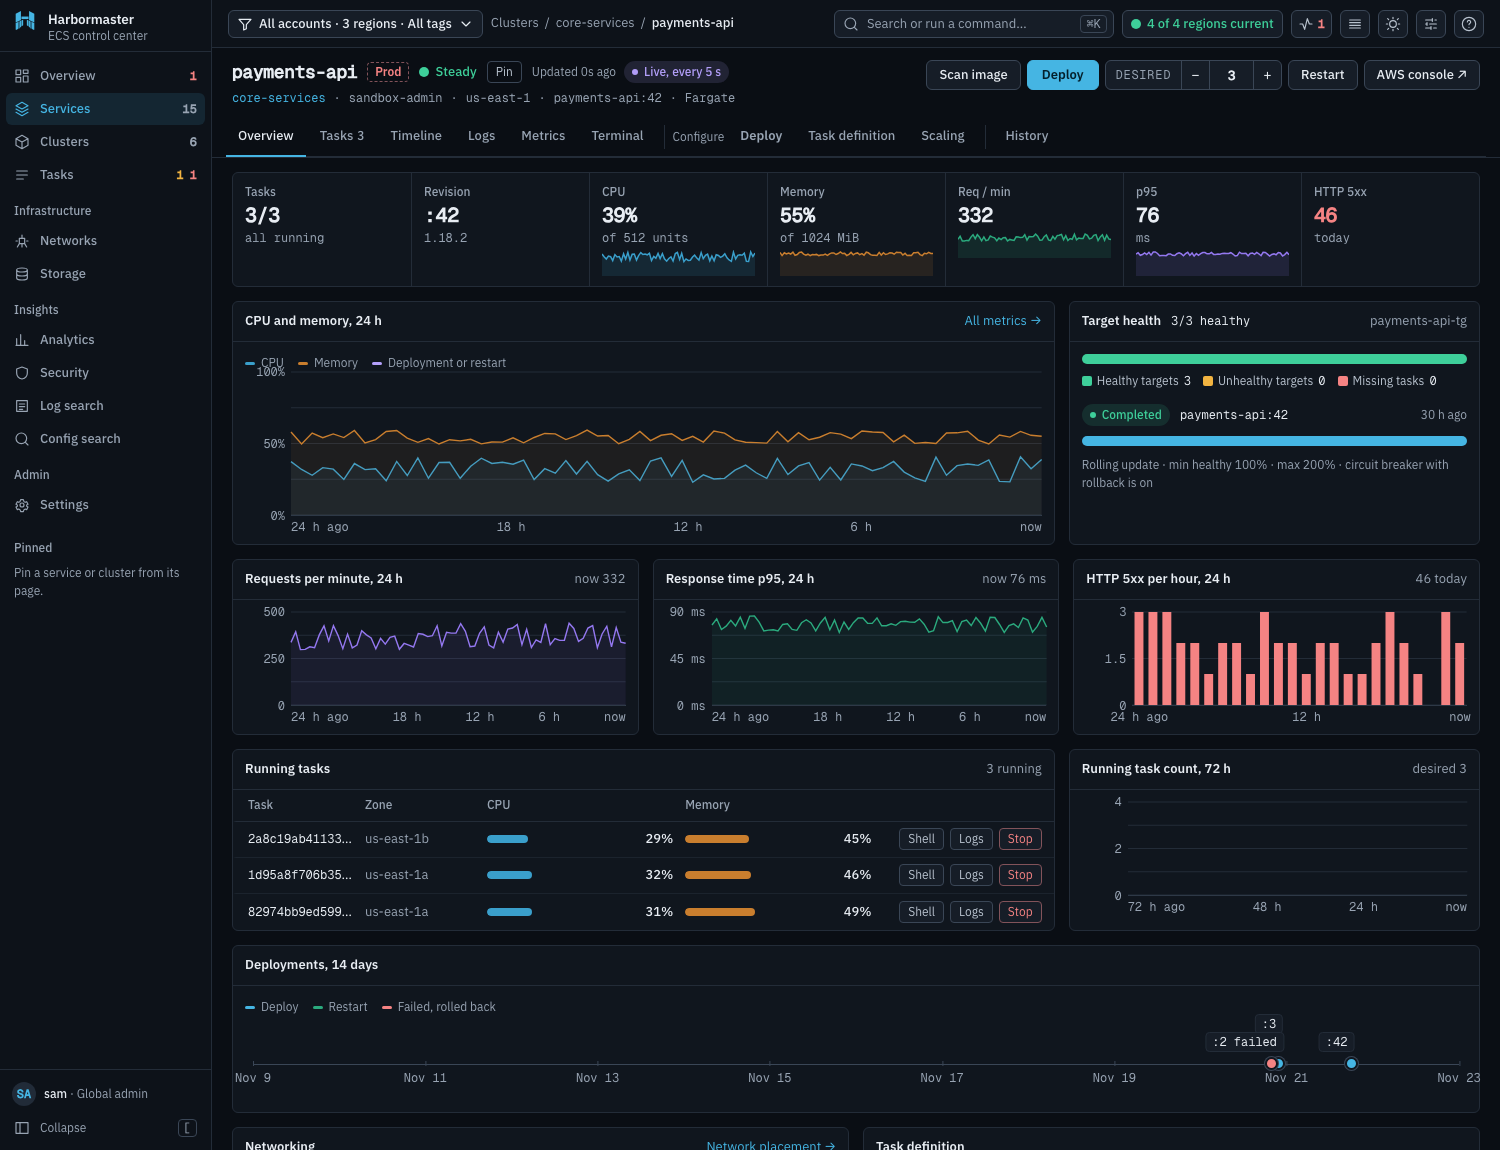
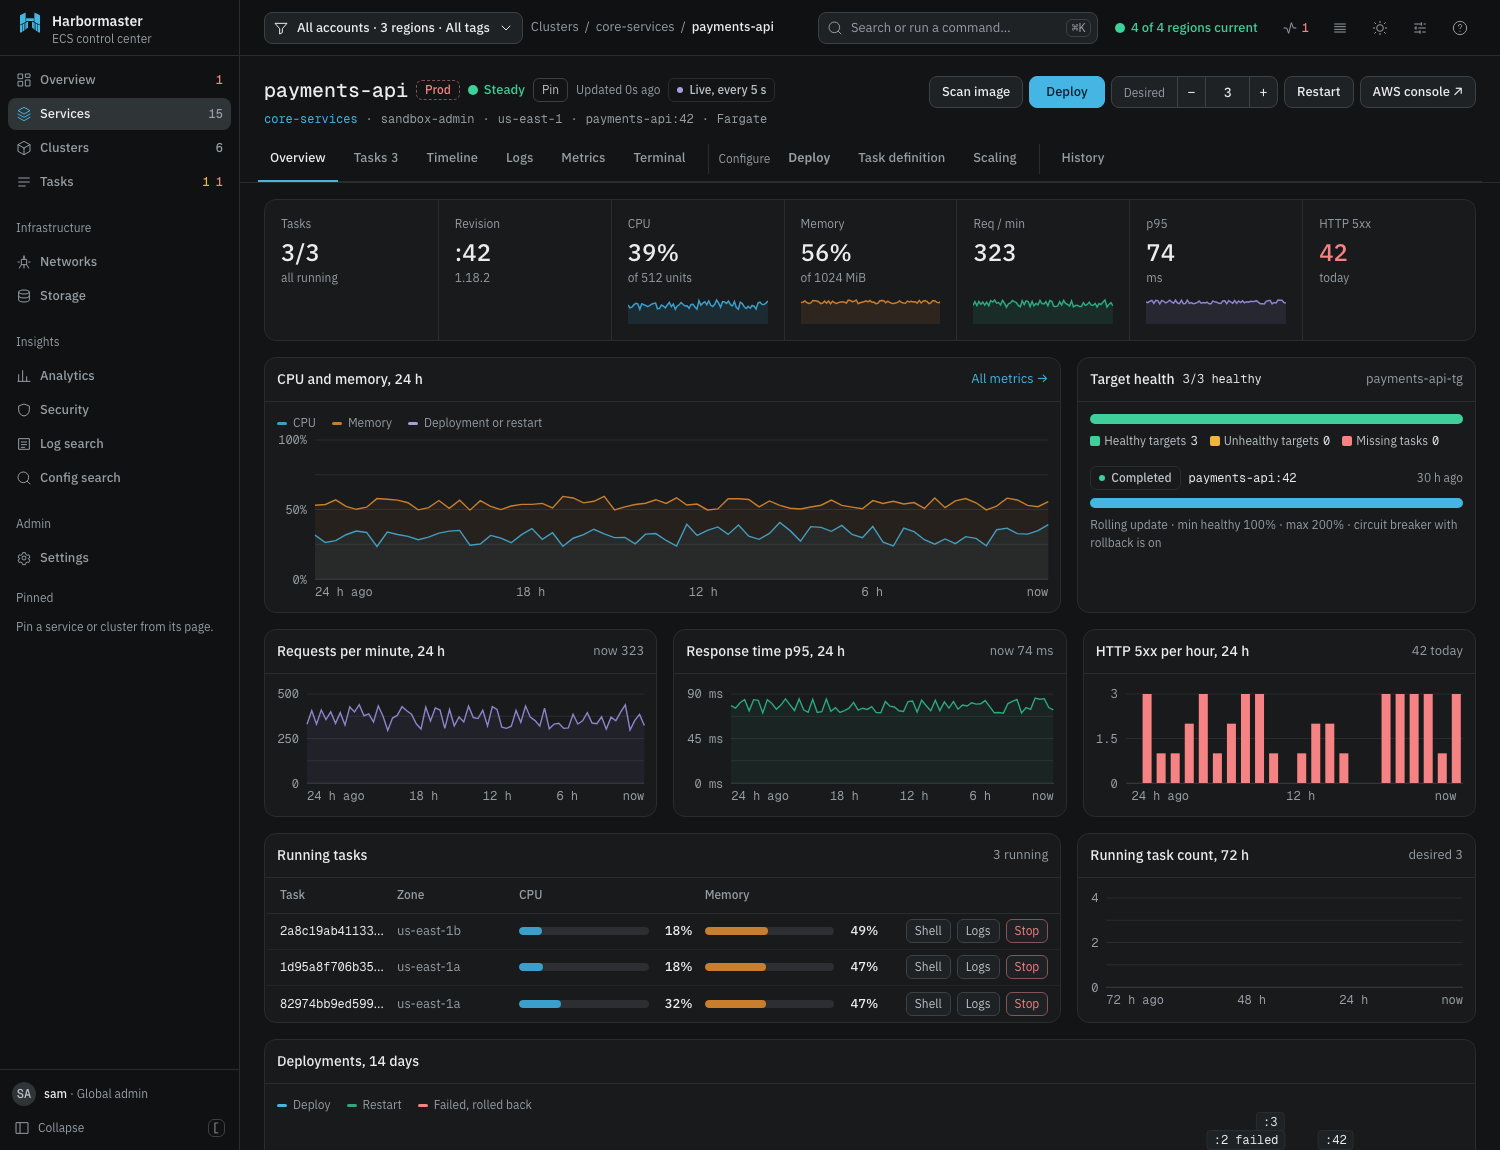
docs: retake the screenshots and describe the new estate map
The pages showed the previous UI and described one cell per cluster.

diff --git a/harbormaster-docs/docs/guides/overview-and-clusters.md b/harbormaster-docs/docs/guides/overview-and-clusters.md
@@ -25,7 +25,7 @@ The **Layout** switch at the top right has two views.
 **Triage** (the default) answers "what is wrong right now?"
 
 - **Needs attention** lists current alerts, worst first. Each row has a severity (**Failing**, **Warning** or **In progress**), the service, the cluster, the cause and a suggested next step as a link. When a change happened just before the problem, the row says `Just before: ...`. Use the **All**, **Failing**, **Warning** and **In progress** filter to narrow the list. Account-level alerts (for example an unreachable account) appear in the same list. Global admins get an **Open accounts** action on them.
-- **Estate map** draws one cell per cluster, coloured by status.
+- **Estate map** groups clusters by account and region. With up to 24 clusters, each one is named and shows its running and desired tasks with a load line. With more, up to four clusters per region that need attention or are degraded keep their name, and the rest are cells coloured by status. Select a cluster to open it.
 - **Busiest clusters, CPU** ranks clusters by CPU, with a link to **All clusters**.
 - **Task stops per hour, 24 h** and **Why tasks stopped, 3 days** show how often tasks stop and the main reasons.
 

diff --git a/harbormaster-docs/docs/guides/services.md b/harbormaster-docs/docs/guides/services.md
@@ -24,7 +24,7 @@ Buttons on the right:
 
 - **Deploy** opens the Deploy tab. It is greyed out without Edit, Deploy or Operate.
 - **Scan for vulnerabilities** scans the images the service runs now. See [Image security](image-security.md).
-- A **DESIRED** stepper changes the desired count. It needs Operate and asks for confirmation. A warning appears when the new count is outside the auto scaling range.
+- A **Desired** stepper changes the desired count. It needs Operate and asks for confirmation. A warning appears when the new count is outside the auto scaling range.
 - **Restart** starts a new deployment of the same revision. It needs Operate. It is disabled while a rollout runs.
 - **AWS console** opens the service in the AWS console.
 
